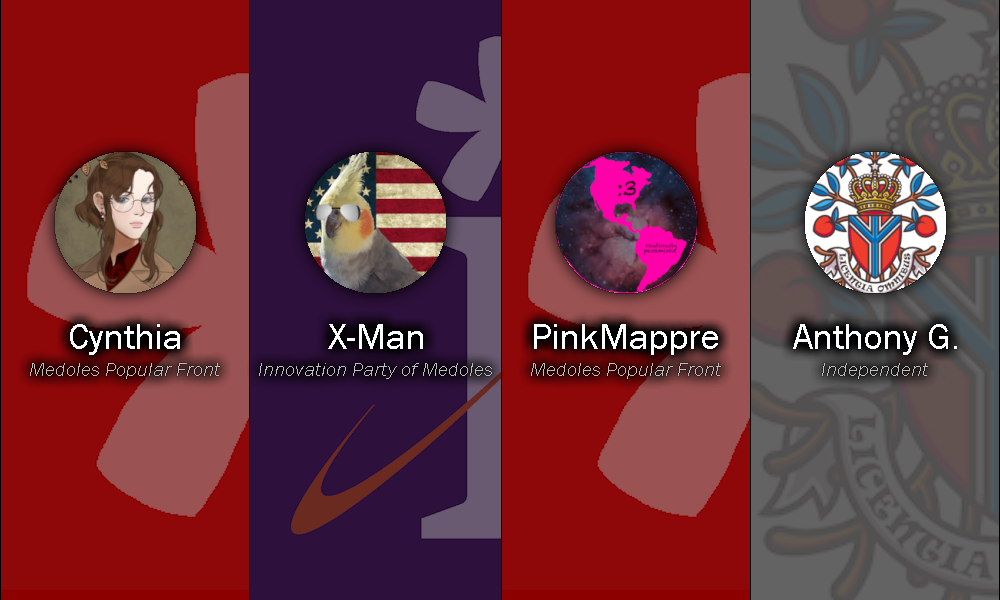
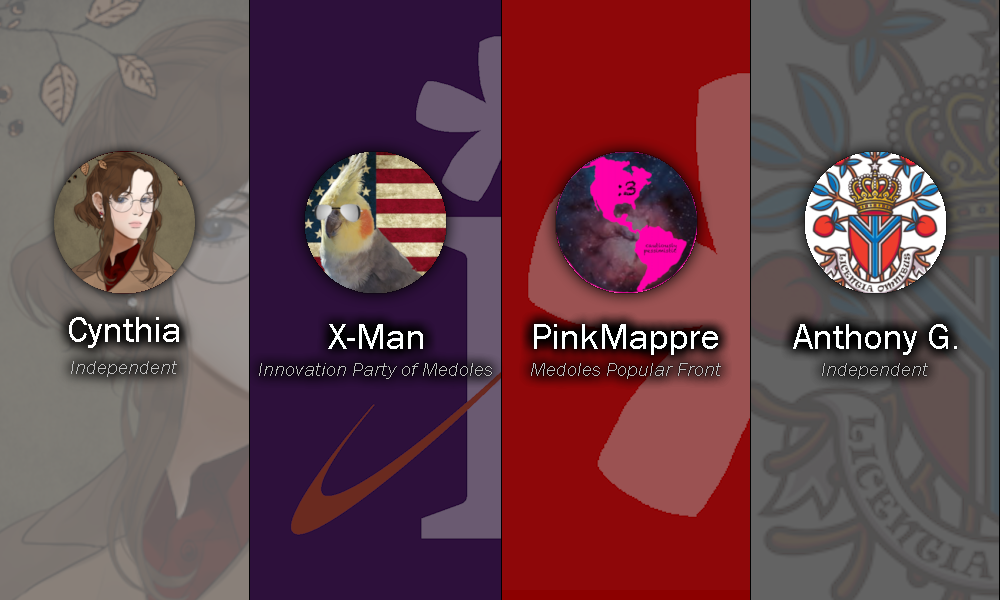
fix thumbnail

Changed region(s): [[0.0, 0.0, 0.248, 1.0]]

diff --git a/pages/newsArticles/article19.html b/pages/newsArticles/article19.html
@@ -84,7 +84,7 @@
                 As May is nearing, so is a new Senator election. There are two seats up for grabs, and neither Hedgelaird nor SherlockChow are re-running to keep their post. This means we'll have a new batch of potentially new faces to keep ideas fresh for the betterment of Medoles and its people. In this article, we'll introduce you to the four candidates that are running this time around.
                 <br><br>
                 <b>1. Cynthia</b><br>
-                The first potential Senator to sign up is one we've commonly seen in recent elections: Hopelesstyrant, otherwise known as Cynthia. She is a candidate for the Medoles Popular Front who's been pushing to make her mark in politics throughout April. Cynthia launches her campaign with this speech:
+                The first potential Senator to sign up is one we've commonly seen in recent elections: Hopelesstyrant, otherwise known as Cynthia. She is an independent candidate who's been pushing to make her mark in politics throughout April. Cynthia launches her campaign with this speech:
                 <br>
             </p>
     <blockquote class="fs-5" style="padding-left: 50px;">
